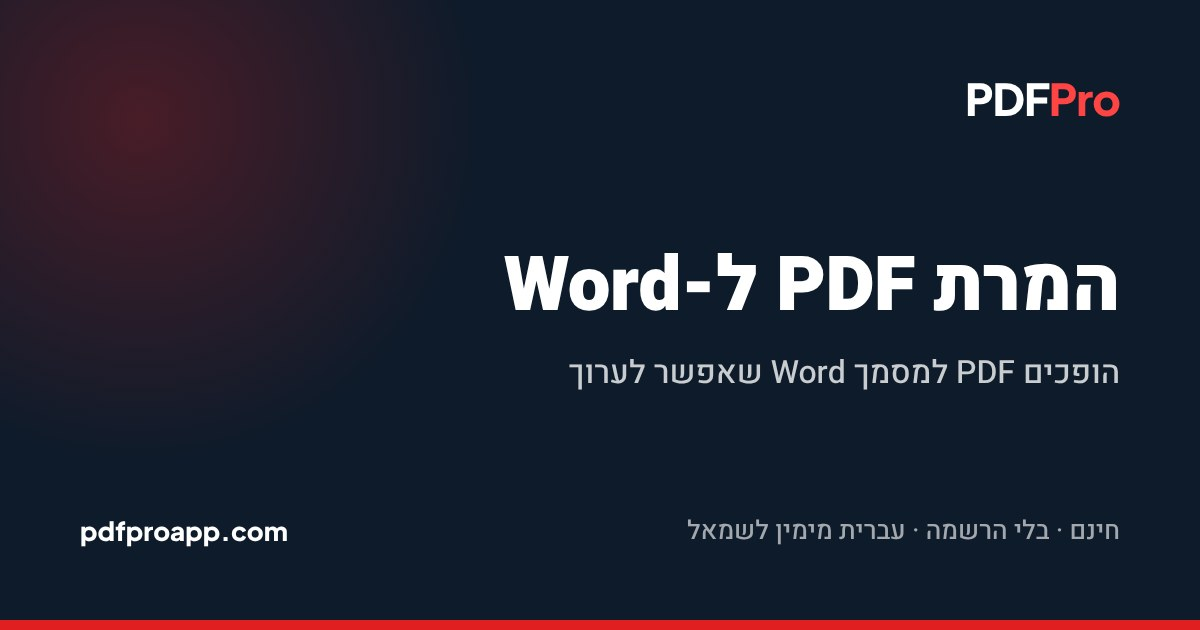
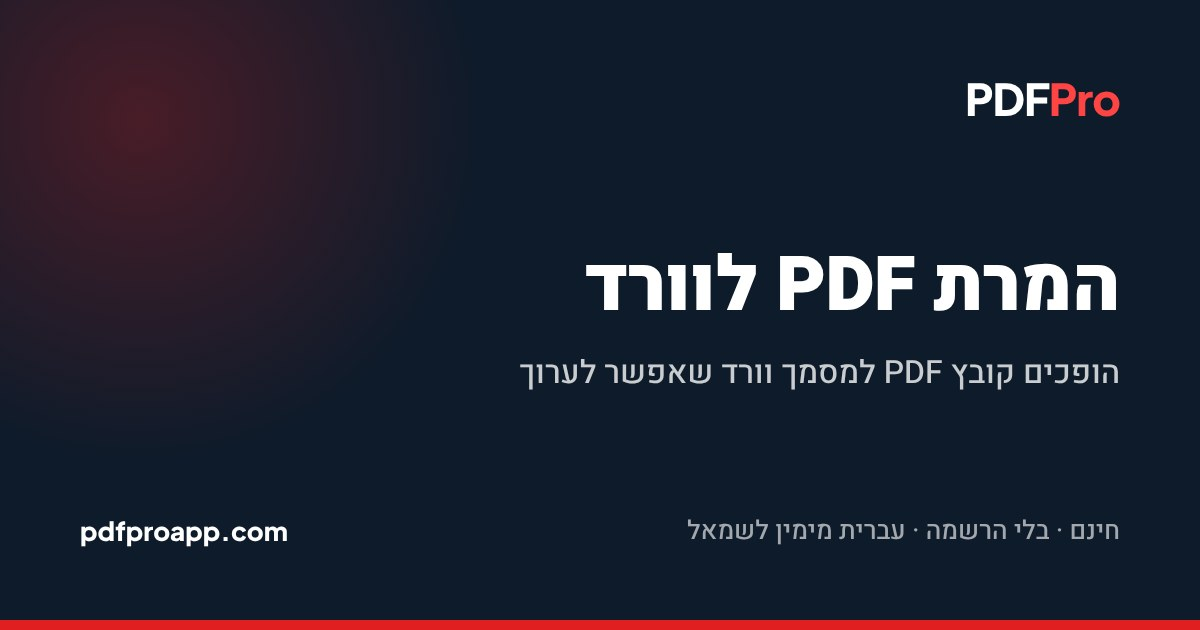
Hebrew PDF↔Word pages: use the spelling people search ('וורד') (#29)
Claude-Session: https://claude.ai/code/session_01XJZ43rP6NY81ufvKxETeWz

Changed region(s): [[0.4317, 0.573, 0.8633, 0.6333], [0.4008, 0.3921, 0.6167, 0.5127]]

diff --git a/he/pdf-to-word/index.html b/he/pdf-to-word/index.html
@@ -3,8 +3,8 @@
 <head>
 <meta charset="UTF-8">
 <meta name="viewport" content="width=device-width, initial-scale=1">
-<title>המרת PDF ל-Word בחינם – עברית בלי טקסט הפוך | PDFPro</title>
-<meta name="description" content="המרת PDF לקובץ Word (docx) שאפשר לערוך, בחינם ובלי הרשמה. שומר על הפריסה, הטבלאות וכיווניות העברית.">
+<title>המרת PDF לוורד בחינם – עברית בלי טקסט הפוך | PDFPro</title>
+<meta name="description" content="המרת קובץ PDF לוורד (Word, docx) שאפשר לערוך, בחינם ובלי הרשמה. שומר על הפריסה, הטבלאות והעברית, בלי טקסט הפוך.">
 <link rel="canonical" href="https://www.pdfproapp.com/he/pdf-to-word/">
 <link rel="icon" href="/favicon.ico" sizes="48x48">
 <link rel="icon" href="/favicon.svg" type="image/svg+xml">
@@ -17,14 +17,14 @@
 <link rel="alternate" hreflang="x-default" href="https://www.pdfproapp.com/pdf-to-word/">
 <meta property="og:type" content="website">
 <meta property="og:site_name" content="PDFPro">
-<meta property="og:title" content="המרת PDF ל-Word בחינם – עברית בלי טקסט הפוך | PDFPro">
-<meta property="og:description" content="המרת PDF לקובץ Word (docx) שאפשר לערוך, בחינם ובלי הרשמה. שומר על הפריסה, הטבלאות וכיווניות העברית.">
+<meta property="og:title" content="המרת PDF לוורד בחינם – עברית בלי טקסט הפוך | PDFPro">
+<meta property="og:description" content="המרת קובץ PDF לוורד (Word, docx) שאפשר לערוך, בחינם ובלי הרשמה. שומר על הפריסה, הטבלאות והעברית, בלי טקסט הפוך.">
 <meta property="og:url" content="https://www.pdfproapp.com/he/pdf-to-word/">
 <meta property="og:locale" content="he_IL">
 <meta property="og:image" content="https://www.pdfproapp.com/assets/og/he-pdf-to-word.jpg">
 <meta property="og:image:width" content="1200">
 <meta property="og:image:height" content="630">
-<meta property="og:image:alt" content="המרת PDF ל-Word בחינם – עברית בלי טקסט הפוך | PDFPro">
+<meta property="og:image:alt" content="המרת PDF לוורד בחינם – עברית בלי טקסט הפוך | PDFPro">
 <meta name="twitter:card" content="summary_large_image">
 <meta name="twitter:image" content="https://www.pdfproapp.com/assets/og/he-pdf-to-word.jpg">
 <link rel="preconnect" href="https://fonts.googleapis.com">
@@ -35,7 +35,7 @@
 <script async src="https://pagead2.googlesyndication.com/pagead/js/adsbygoogle.js?client=ca-pub-5921716820042715" crossorigin="anonymous"></script>
 <script async src="https://www.googletagmanager.com/gtag/js?id=G-TL72YY4S22"></script>
 <script>window.dataLayer=window.dataLayer||[];function gtag(){dataLayer.push(arguments);}gtag('js',new Date());gtag('config','G-TL72YY4S22');</script>
-<script type="application/ld+json">{"@context": "https://schema.org", "@graph": [{"@type": "WebApplication", "name": "PDFPro PDF ל-Word", "url": "https://www.pdfproapp.com/he/pdf-to-word/", "applicationCategory": "UtilitiesApplication", "operatingSystem": "Any", "inLanguage": "he", "description": "המרת PDF לקובץ Word (docx) שאפשר לערוך, בחינם ובלי הרשמה. שומר על הפריסה, הטבלאות וכיווניות העברית.", "offers": {"@type": "Offer", "price": "0", "priceCurrency": "USD"}}, {"@type": "FAQPage", "mainEntity": [{"@type": "Question", "name": "זה באמת בחינם?", "acceptedAnswer": {"@type": "Answer", "text": "כן. בלי הרשמה ובלי סימן מים. לכל כלי יש מגבלה שעתית כדי שהשירות יישאר זמין לכולם."}}, {"@type": "Question", "name": "העיצוב נשמר?", "acceptedAnswer": {"@type": "Answer", "text": "טקסט, גופנים, טבלאות ותמונות נשמרים כמה שיותר קרוב למקור. פריסות מורכבות מאוד, כמו עיתון עם אלמנטים חופפים, עשויות לדרוש תיקונים קטנים."}}, {"@type": "Question", "name": "זה עובד עם PDF בעברית?", "acceptedAnswer": {"@type": "Answer", "text": "כן. הכלי מזהה טקסט מימין לשמאל כך שמילים ומשפטים בעברית לא יוצאים הפוכים. פסקאות שמשלבות עברית ואנגלית שומרות על הסדר."}}, {"@type": "Question", "name": "אפשר להמיר PDF סרוק?", "acceptedAnswer": {"@type": "Answer", "text": "PDF סרוק הוא בעצם תמונה של טקסט, ולכן אין מה להמיר ישירות. השתמשו בכלי ה-OCR ובחרו Word כפורמט הפלט."}}, {"@type": "Question", "name": "מה גודל הקובץ המקסימלי?", "acceptedAnswer": {"@type": "Answer", "text": "עד 100MB לקובץ."}}]}, {"@type": "BreadcrumbList", "itemListElement": [{"@type": "ListItem", "position": 1, "name": "בית", "item": "https://www.pdfproapp.com/he/"}, {"@type": "ListItem", "position": 2, "name": "PDF ל-Word"}]}]}</script>
+<script type="application/ld+json">{"@context": "https://schema.org", "@graph": [{"@type": "WebApplication", "name": "PDFPro PDF ל-Word", "url": "https://www.pdfproapp.com/he/pdf-to-word/", "applicationCategory": "UtilitiesApplication", "operatingSystem": "Any", "inLanguage": "he", "description": "המרת קובץ PDF לוורד (Word, docx) שאפשר לערוך, בחינם ובלי הרשמה. שומר על הפריסה, הטבלאות והעברית, בלי טקסט הפוך.", "offers": {"@type": "Offer", "price": "0", "priceCurrency": "USD"}}, {"@type": "FAQPage", "mainEntity": [{"@type": "Question", "name": "זה באמת בחינם?", "acceptedAnswer": {"@type": "Answer", "text": "כן. בלי הרשמה ובלי סימן מים. לכל כלי יש מגבלה שעתית כדי שהשירות יישאר זמין לכולם."}}, {"@type": "Question", "name": "העיצוב נשמר?", "acceptedAnswer": {"@type": "Answer", "text": "טקסט, גופנים, טבלאות ותמונות נשמרים כמה שיותר קרוב למקור. פריסות מורכבות מאוד, כמו עיתון עם אלמנטים חופפים, עשויות לדרוש תיקונים קטנים."}}, {"@type": "Question", "name": "זה עובד עם PDF בעברית?", "acceptedAnswer": {"@type": "Answer", "text": "כן. הכלי מזהה טקסט מימין לשמאל כך שמילים ומשפטים בעברית לא יוצאים הפוכים. פסקאות שמשלבות עברית ואנגלית שומרות על הסדר."}}, {"@type": "Question", "name": "אפשר להמיר PDF סרוק?", "acceptedAnswer": {"@type": "Answer", "text": "PDF סרוק הוא בעצם תמונה של טקסט, ולכן אין מה להמיר ישירות. השתמשו בכלי ה-OCR ובחרו Word כפורמט הפלט."}}, {"@type": "Question", "name": "מה גודל הקובץ המקסימלי?", "acceptedAnswer": {"@type": "Answer", "text": "עד 100MB לקובץ."}}]}, {"@type": "BreadcrumbList", "itemListElement": [{"@type": "ListItem", "position": 1, "name": "בית", "item": "https://www.pdfproapp.com/he/"}, {"@type": "ListItem", "position": 2, "name": "PDF ל-Word"}]}]}</script>
 </head>
 <body class="rtl">
 <header class="site-nav">
@@ -52,8 +52,8 @@
 <main>
 <div class="container">
   <nav class="breadcrumb" aria-label="Breadcrumb"><ol><li><a href="/he/">בית</a></li><li aria-current="page">PDF ל-Word</li></ol></nav>
-  <h1>המרת PDF ל-Word</h1>
-  <p class="lead">הופכים PDF למסמך Word שאפשר לערוך. הפריסה, הטבלאות והתמונות נשמרות, והטקסט בעברית נשאר בסדר הנכון ולא מתהפך.</p>
+  <h1>המרת PDF לוורד</h1>
+  <p class="lead">הופכים קובץ PDF למסמך וורד שאפשר לערוך. הפריסה, הטבלאות והתמונות נשמרות, והטקסט בעברית נשאר בסדר הנכון ולא מתהפך.</p>
 
   <section class="tool" aria-label="PDF ל-Word">
     <label class="dropzone" id="tool-dropzone" tabindex="0">

diff --git a/he/word-to-pdf/index.html b/he/word-to-pdf/index.html
@@ -3,7 +3,7 @@
 <head>
 <meta charset="UTF-8">
 <meta name="viewport" content="width=device-width, initial-scale=1">
-<title>המרת Word ל-PDF בחינם – גם Excel ו-PowerPoint | PDFPro</title>
+<title>המרת וורד ל-PDF בחינם – גם Excel ו-PowerPoint | PDFPro</title>
 <meta name="description" content="המרת קבצי Word, Excel ו-PowerPoint ל-PDF אונליין, עם עברית וכיווניות מימין לשמאל שנשמרות. בחינם ובלי הרשמה.">
 <link rel="canonical" href="https://www.pdfproapp.com/he/word-to-pdf/">
 <link rel="icon" href="/favicon.ico" sizes="48x48">
@@ -17,14 +17,14 @@
 <link rel="alternate" hreflang="x-default" href="https://www.pdfproapp.com/word-to-pdf/">
 <meta property="og:type" content="website">
 <meta property="og:site_name" content="PDFPro">
-<meta property="og:title" content="המרת Word ל-PDF בחינם – גם Excel ו-PowerPoint | PDFPro">
+<meta property="og:title" content="המרת וורד ל-PDF בחינם – גם Excel ו-PowerPoint | PDFPro">
 <meta property="og:description" content="המרת קבצי Word, Excel ו-PowerPoint ל-PDF אונליין, עם עברית וכיווניות מימין לשמאל שנשמרות. בחינם ובלי הרשמה.">
 <meta property="og:url" content="https://www.pdfproapp.com/he/word-to-pdf/">
 <meta property="og:locale" content="he_IL">
 <meta property="og:image" content="https://www.pdfproapp.com/assets/og/he-word-to-pdf.jpg">
 <meta property="og:image:width" content="1200">
 <meta property="og:image:height" content="630">
-<meta property="og:image:alt" content="המרת Word ל-PDF בחינם – גם Excel ו-PowerPoint | PDFPro">
+<meta property="og:image:alt" content="המרת וורד ל-PDF בחינם – גם Excel ו-PowerPoint | PDFPro">
 <meta name="twitter:card" content="summary_large_image">
 <meta name="twitter:image" content="https://www.pdfproapp.com/assets/og/he-word-to-pdf.jpg">
 <link rel="preconnect" href="https://fonts.googleapis.com">
@@ -52,7 +52,7 @@
 <main>
 <div class="container">
   <nav class="breadcrumb" aria-label="Breadcrumb"><ol><li><a href="/he/">בית</a></li><li aria-current="page">Word ל-PDF</li></ol></nav>
-  <h1>המרת Word ל-PDF</h1>
+  <h1>המרת וורד ל-PDF</h1>
   <p class="lead">הופכים מסמך Word, גיליון Excel או מצגת PowerPoint ל-PDF שנראה אותו דבר בכל מכשיר.</p>
 
   <section class="tool" aria-label="Word ל-PDF">

diff --git a/he/translate-english-to-hebrew/index.html b/he/translate-english-to-hebrew/index.html
@@ -21,12 +21,12 @@
 <meta property="og:description" content="מתרגמים מסמך באנגלית לעברית ומקבלים אותו בחזרה כ-PDF באותו עיצוב, עם עברית מימין לשמאל ומספרים בסדר הנכון. בחינם, בלי הרשמה.">
 <meta property="og:url" content="https://www.pdfproapp.com/he/translate-english-to-hebrew/">
 <meta property="og:locale" content="he_IL">
-<meta property="og:image" content="https://www.pdfproapp.com/assets/og/he-default.jpg">
+<meta property="og:image" content="https://www.pdfproapp.com/assets/og/he-translate-english-to-hebrew.jpg">
 <meta property="og:image:width" content="1200">
 <meta property="og:image:height" content="630">
 <meta property="og:image:alt" content="תרגום מסמכים מאנגלית לעברית – PDF בחינם | PDFPro">
 <meta name="twitter:card" content="summary_large_image">
-<meta name="twitter:image" content="https://www.pdfproapp.com/assets/og/he-default.jpg">
+<meta name="twitter:image" content="https://www.pdfproapp.com/assets/og/he-translate-english-to-hebrew.jpg">
 <link rel="preconnect" href="https://fonts.googleapis.com">
 <link rel="preconnect" href="https://fonts.gstatic.com" crossorigin>
 <link rel="preconnect" href="https://pdfproweb.onrender.com">

diff --git a/he/translate-hebrew-to-english/index.html b/he/translate-hebrew-to-english/index.html
@@ -21,12 +21,12 @@
 <meta property="og:description" content="מתרגמים מסמך בעברית לאנגלית, מכתב, קורות חיים, חוזה או אישור, ומקבלים PDF באותו עיצוב. בחינם, בלי הרשמה.">
 <meta property="og:url" content="https://www.pdfproapp.com/he/translate-hebrew-to-english/">
 <meta property="og:locale" content="he_IL">
-<meta property="og:image" content="https://www.pdfproapp.com/assets/og/he-default.jpg">
+<meta property="og:image" content="https://www.pdfproapp.com/assets/og/he-translate-hebrew-to-english.jpg">
 <meta property="og:image:width" content="1200">
 <meta property="og:image:height" content="630">
 <meta property="og:image:alt" content="תרגום מסמכים מעברית לאנגלית – PDF בחינם | PDFPro">
 <meta name="twitter:card" content="summary_large_image">
-<meta name="twitter:image" content="https://www.pdfproapp.com/assets/og/he-default.jpg">
+<meta name="twitter:image" content="https://www.pdfproapp.com/assets/og/he-translate-hebrew-to-english.jpg">
 <link rel="preconnect" href="https://fonts.googleapis.com">
 <link rel="preconnect" href="https://fonts.gstatic.com" crossorigin>
 <link rel="preconnect" href="https://pdfproweb.onrender.com">

diff --git a/translate-hebrew-to-english/index.html b/translate-hebrew-to-english/index.html
@@ -21,12 +21,12 @@
 <meta property="og:description" content="Translate a Hebrew letter, contract, payslip or form into English and keep the layout. Built for new immigrants and anyone dealing with Israeli paperwork. Free, no sign-up.">
 <meta property="og:url" content="https://www.pdfproapp.com/translate-hebrew-to-english/">
 <meta property="og:locale" content="en_US">
-<meta property="og:image" content="https://www.pdfproapp.com/assets/og/en-default.jpg">
+<meta property="og:image" content="https://www.pdfproapp.com/assets/og/en-translate-hebrew-to-english.jpg">
 <meta property="og:image:width" content="1200">
 <meta property="og:image:height" content="630">
 <meta property="og:image:alt" content="Translate Hebrew Documents to English – Free PDF | PDFPro">
 <meta name="twitter:card" content="summary_large_image">
-<meta name="twitter:image" content="https://www.pdfproapp.com/assets/og/en-default.jpg">
+<meta name="twitter:image" content="https://www.pdfproapp.com/assets/og/en-translate-hebrew-to-english.jpg">
 <link rel="preconnect" href="https://fonts.googleapis.com">
 <link rel="preconnect" href="https://fonts.gstatic.com" crossorigin>
 <link rel="preconnect" href="https://pdfproweb.onrender.com">

diff --git a/translate-english-to-hebrew/index.html b/translate-english-to-hebrew/index.html
@@ -21,12 +21,12 @@
 <meta property="og:description" content="Translate an English document into Hebrew and get it back as a PDF in the same design, with Hebrew right to left and numbers in order. Free, no sign-up.">
 <meta property="og:url" content="https://www.pdfproapp.com/translate-english-to-hebrew/">
 <meta property="og:locale" content="en_US">
-<meta property="og:image" content="https://www.pdfproapp.com/assets/og/en-default.jpg">
+<meta property="og:image" content="https://www.pdfproapp.com/assets/og/en-translate-english-to-hebrew.jpg">
 <meta property="og:image:width" content="1200">
 <meta property="og:image:height" content="630">
 <meta property="og:image:alt" content="Translate Documents from English to Hebrew – Free PDF | PDFPro">
 <meta name="twitter:card" content="summary_large_image">
-<meta name="twitter:image" content="https://www.pdfproapp.com/assets/og/en-default.jpg">
+<meta name="twitter:image" content="https://www.pdfproapp.com/assets/og/en-translate-english-to-hebrew.jpg">
 <link rel="preconnect" href="https://fonts.googleapis.com">
 <link rel="preconnect" href="https://fonts.gstatic.com" crossorigin>
 <link rel="preconnect" href="https://pdfproweb.onrender.com">

diff --git a/build.py b/build.py
@@ -218,10 +218,10 @@ TOOLS = [
         },
         "he": {
             "name": "PDF ל-Word",
-            "title": "המרת PDF ל-Word בחינם – עברית בלי טקסט הפוך | PDFPro",
-            "desc": "המרת PDF לקובץ Word (docx) שאפשר לערוך, בחינם ובלי הרשמה. שומר על הפריסה, הטבלאות וכיווניות העברית.",
-            "h1": "המרת PDF ל-Word",
-            "lead": "הופכים PDF למסמך Word שאפשר לערוך. הפריסה, הטבלאות והתמונות נשמרות, והטקסט בעברית נשאר בסדר הנכון ולא מתהפך.",
+            "title": "המרת PDF לוורד בחינם – עברית בלי טקסט הפוך | PDFPro",
+            "desc": "המרת קובץ PDF לוורד (Word, docx) שאפשר לערוך, בחינם ובלי הרשמה. שומר על הפריסה, הטבלאות והעברית, בלי טקסט הפוך.",
+            "h1": "המרת PDF לוורד",
+            "lead": "הופכים קובץ PDF למסמך וורד שאפשר לערוך. הפריסה, הטבלאות והתמונות נשמרות, והטקסט בעברית נשאר בסדר הנכון ולא מתהפך.",
             "run": "המר ל-Word",
             "steps": [
                 ("בוחרים את ה-PDF", "גוררים את הקובץ לתיבה למעלה או לוחצים ובוחרים אותו מהמחשב או מהטלפון."),
@@ -999,9 +999,9 @@ TOOLS = [
         },
         "he": {
             "name": "Word ל-PDF",
-            "title": "המרת Word ל-PDF בחינם – גם Excel ו-PowerPoint | PDFPro",
+            "title": "המרת וורד ל-PDF בחינם – גם Excel ו-PowerPoint | PDFPro",
             "desc": "המרת קבצי Word, Excel ו-PowerPoint ל-PDF אונליין, עם עברית וכיווניות מימין לשמאל שנשמרות. בחינם ובלי הרשמה.",
-            "h1": "המרת Word ל-PDF",
+            "h1": "המרת וורד ל-PDF",
             "lead": "הופכים מסמך Word, גיליון Excel או מצגת PowerPoint ל-PDF שנראה אותו דבר בכל מכשיר.",
             "run": "המר ל-PDF",
             "steps": [
